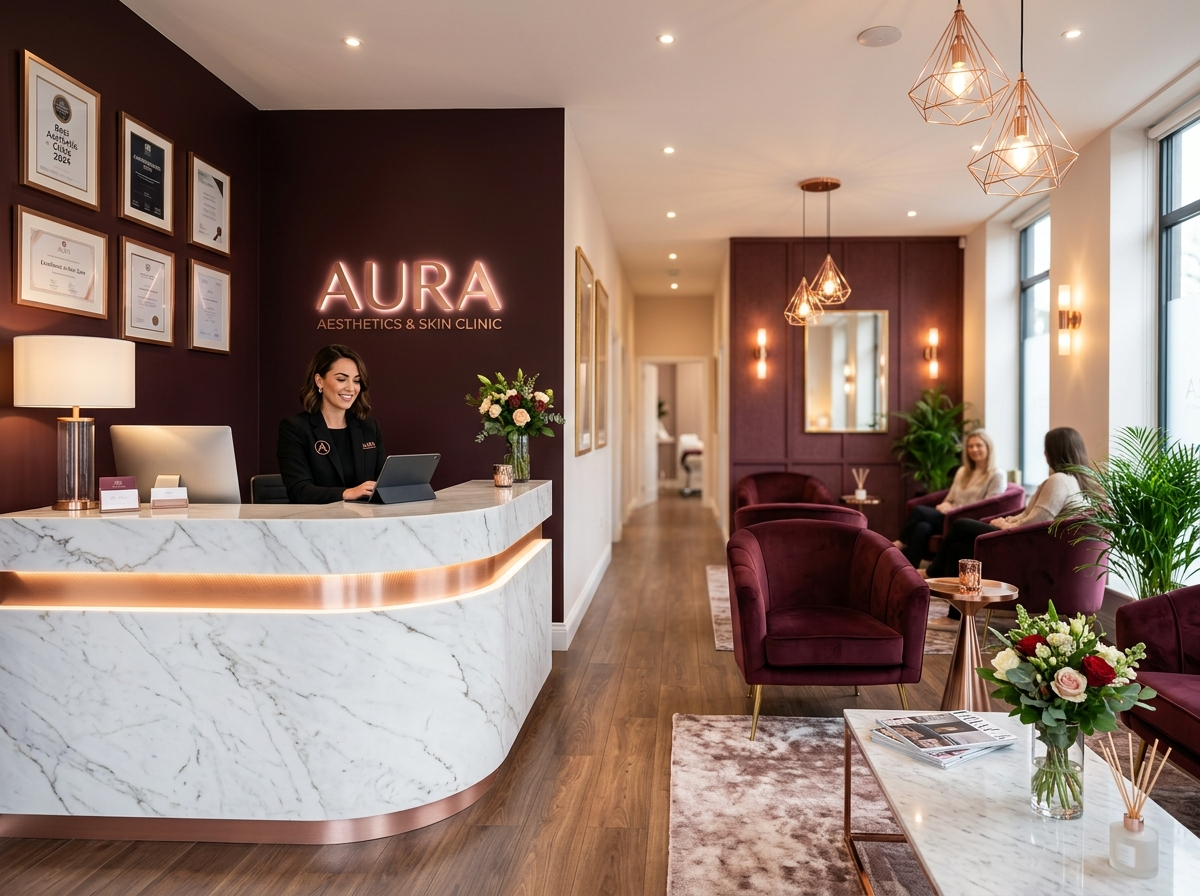
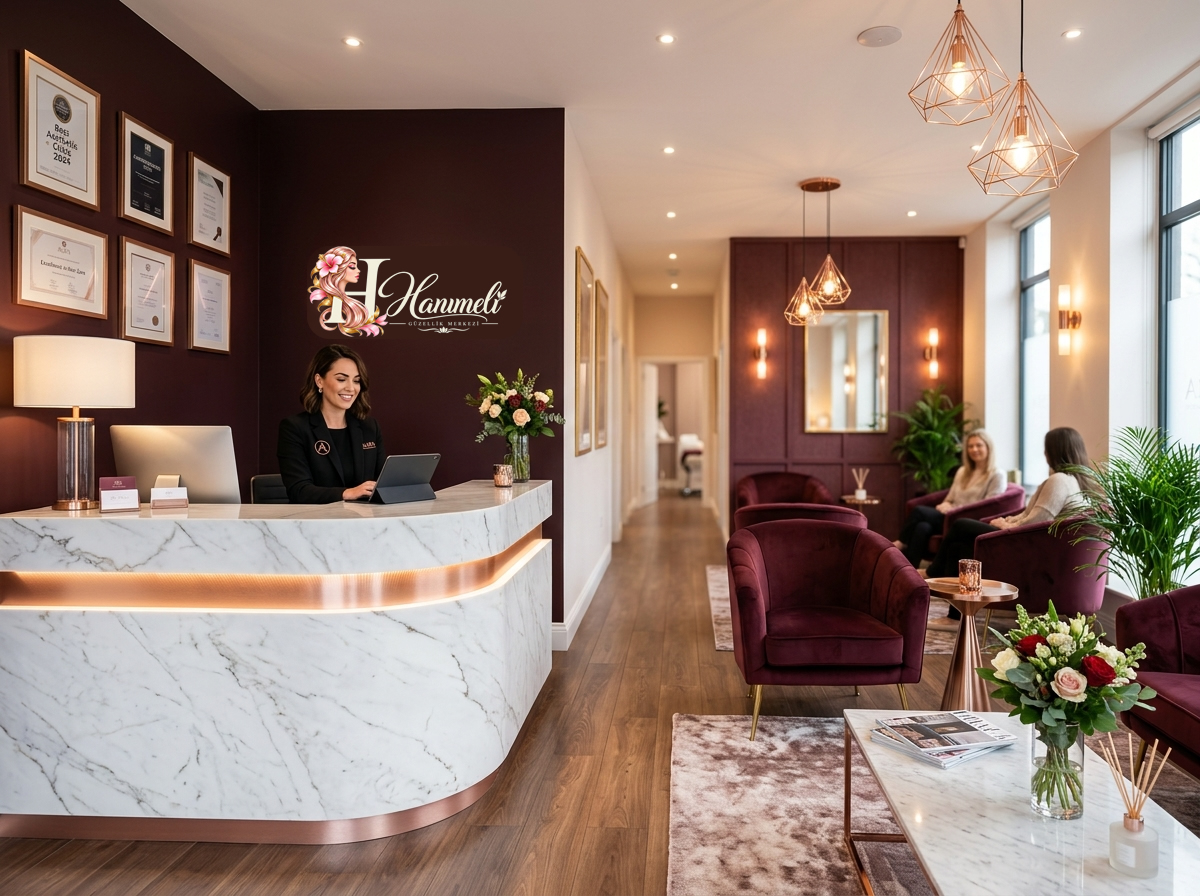
fix: Guncellenen kirsehirin en iyisi resmi yuklendi ve canliya alindi

Changed region(s): [[0.2467, 0.25, 0.4317, 0.375]]

diff --git a/index.html b/index.html
@@ -304,7 +304,7 @@
       <div class="gallery-card">
         <div class="gallery-image-box">
           <span class="gallery-badge">VIP Karşılama</span>
-          <img src="assets/kirsehir_en_iyi_salon.jpg" alt="Hanımeli Güzellik Merkezi Salon İçi">
+          <img src="assets/kirsehir_en_iyi_salon.jpg?v=2" alt="Hanımeli Güzellik Merkezi Salon İçi">
         </div>
         <div class="gallery-content">
           <h4>Lüks & Ferah Karşılama</h4>

diff --git a/kirsehir-en-iyi-guzellik-merkezi.html b/kirsehir-en-iyi-guzellik-merkezi.html
@@ -161,7 +161,7 @@
       </div>
       <div class="hero-image-wrapper">
         <div class="hero-image-container">
-          <img src="assets/kirsehir_en_iyi_salon.jpg" alt="Kırşehir En İyi Güzellik Merkezi Hanımeli Salonu">
+          <img src="assets/kirsehir_en_iyi_salon.jpg?v=2" alt="Kırşehir En İyi Güzellik Merkezi Hanımeli Salonu">
         </div>
       </div>
     </div>
